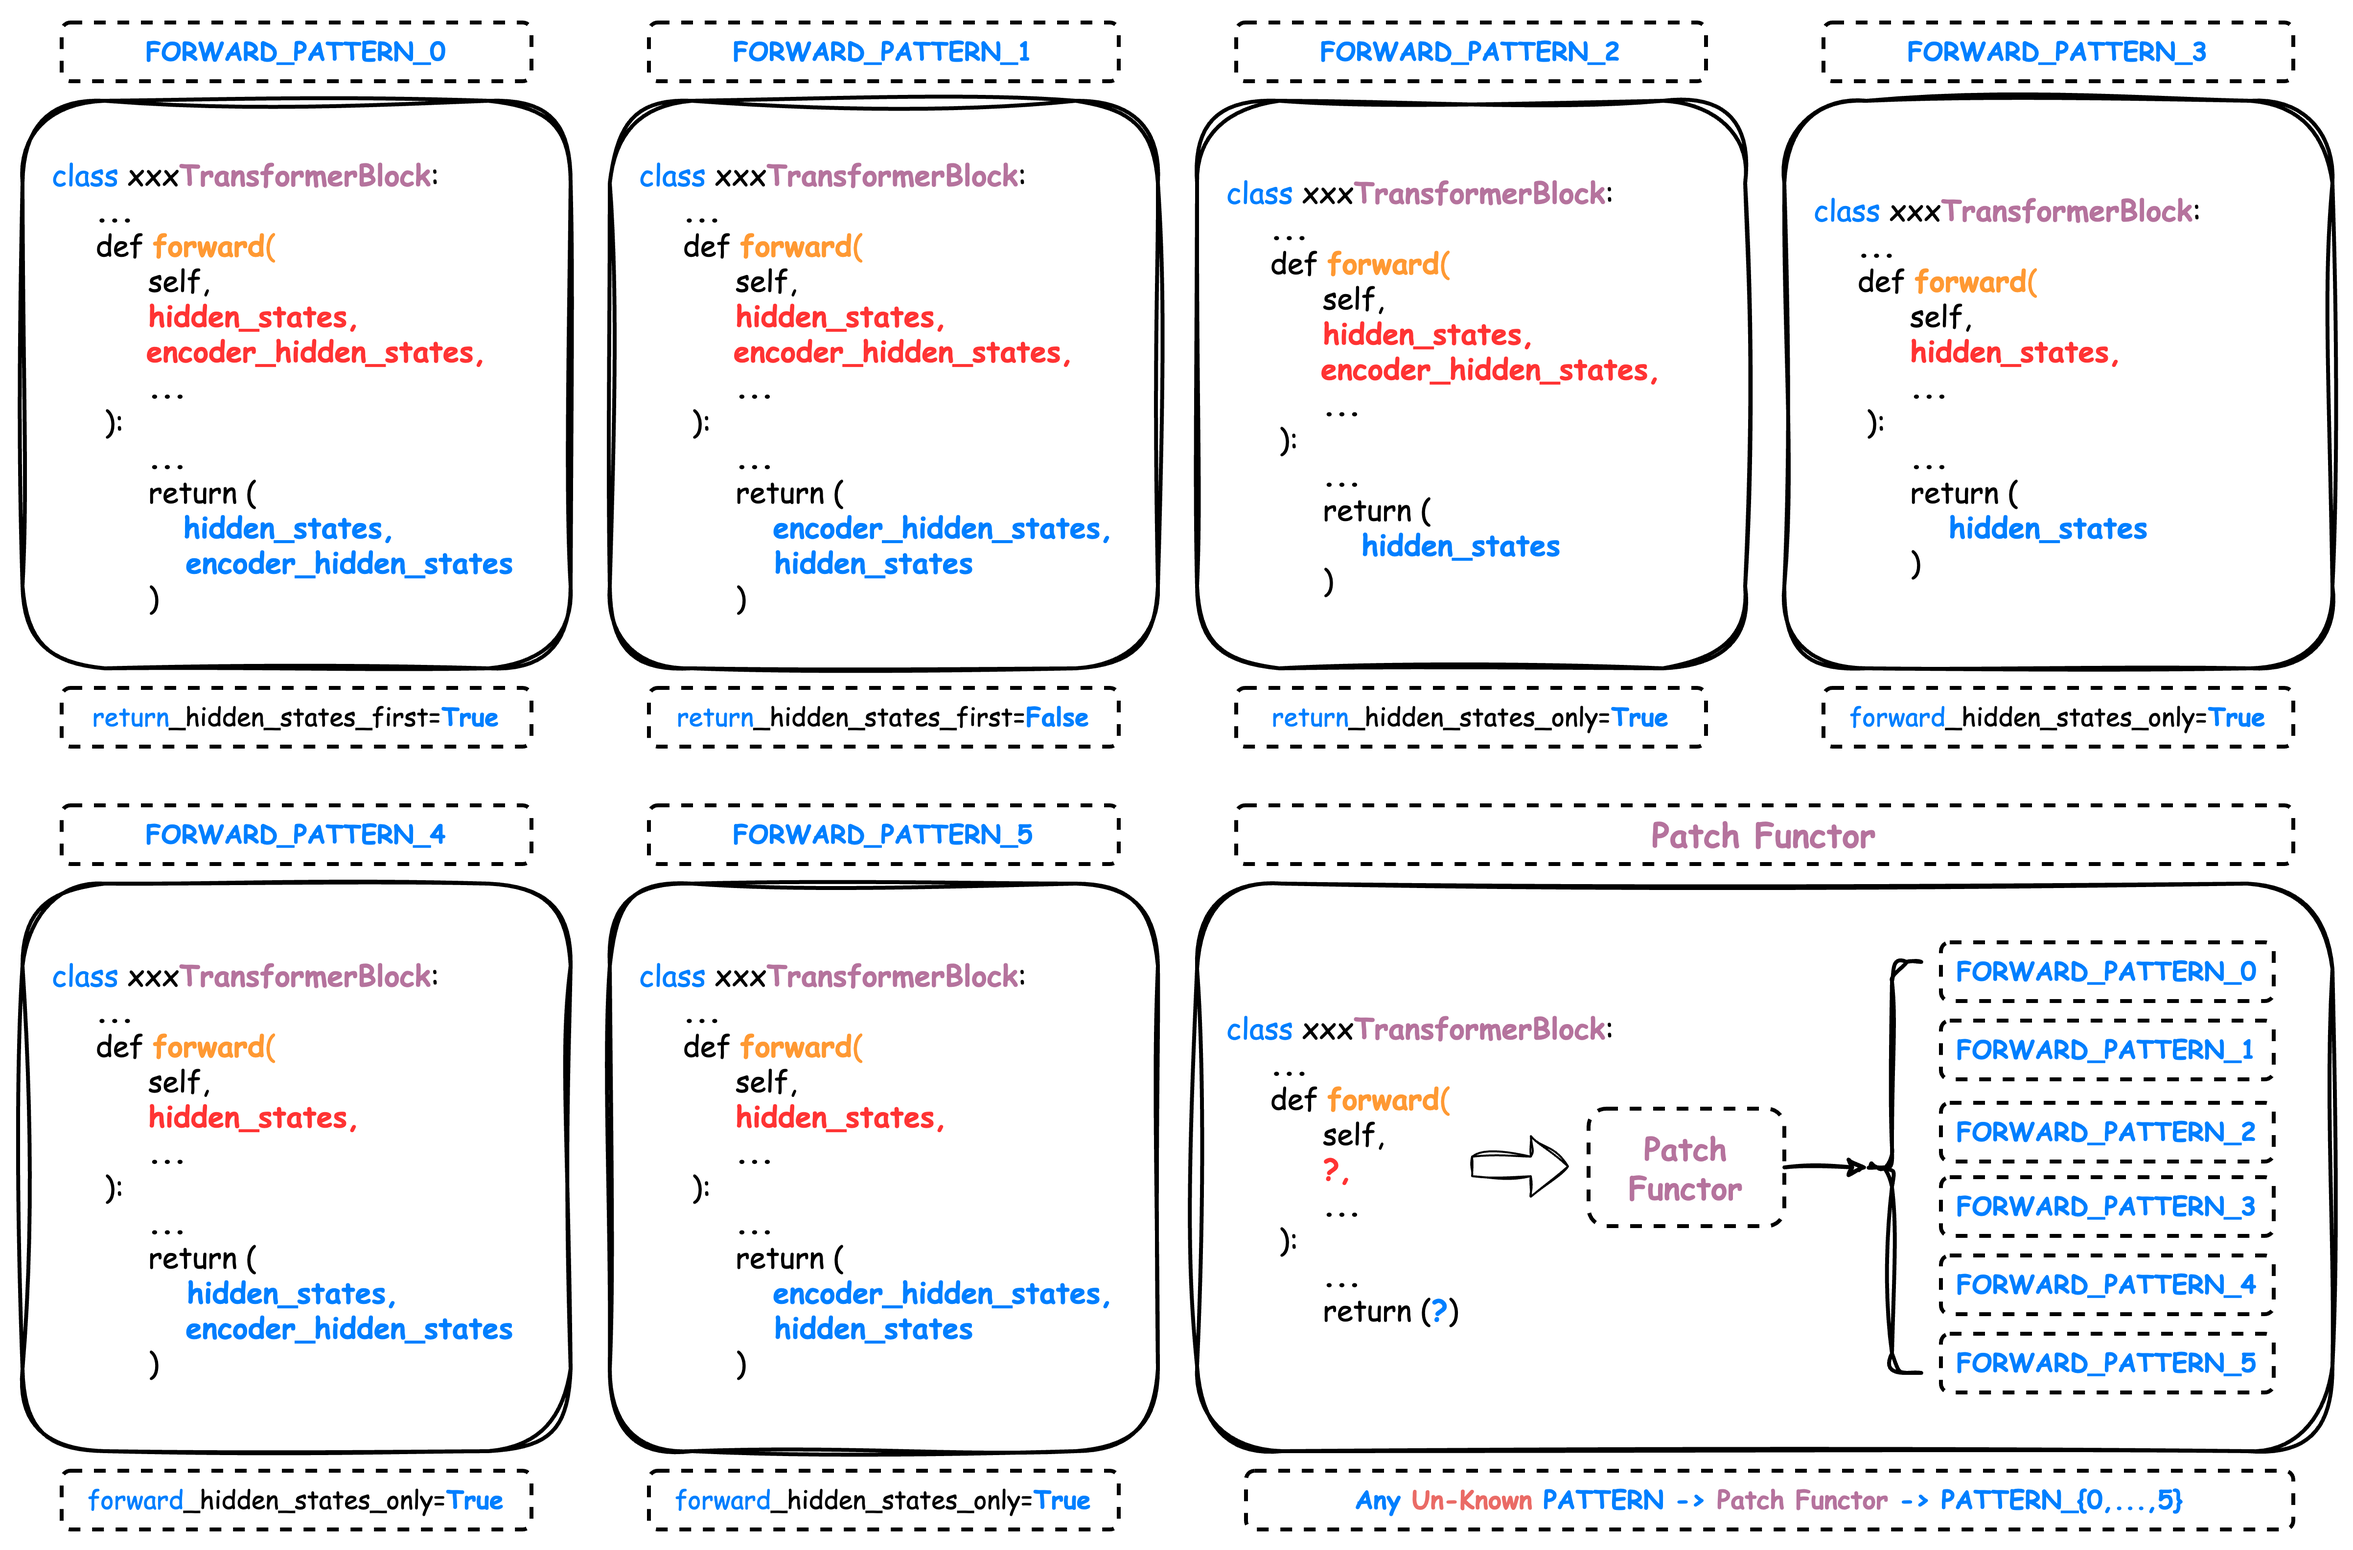
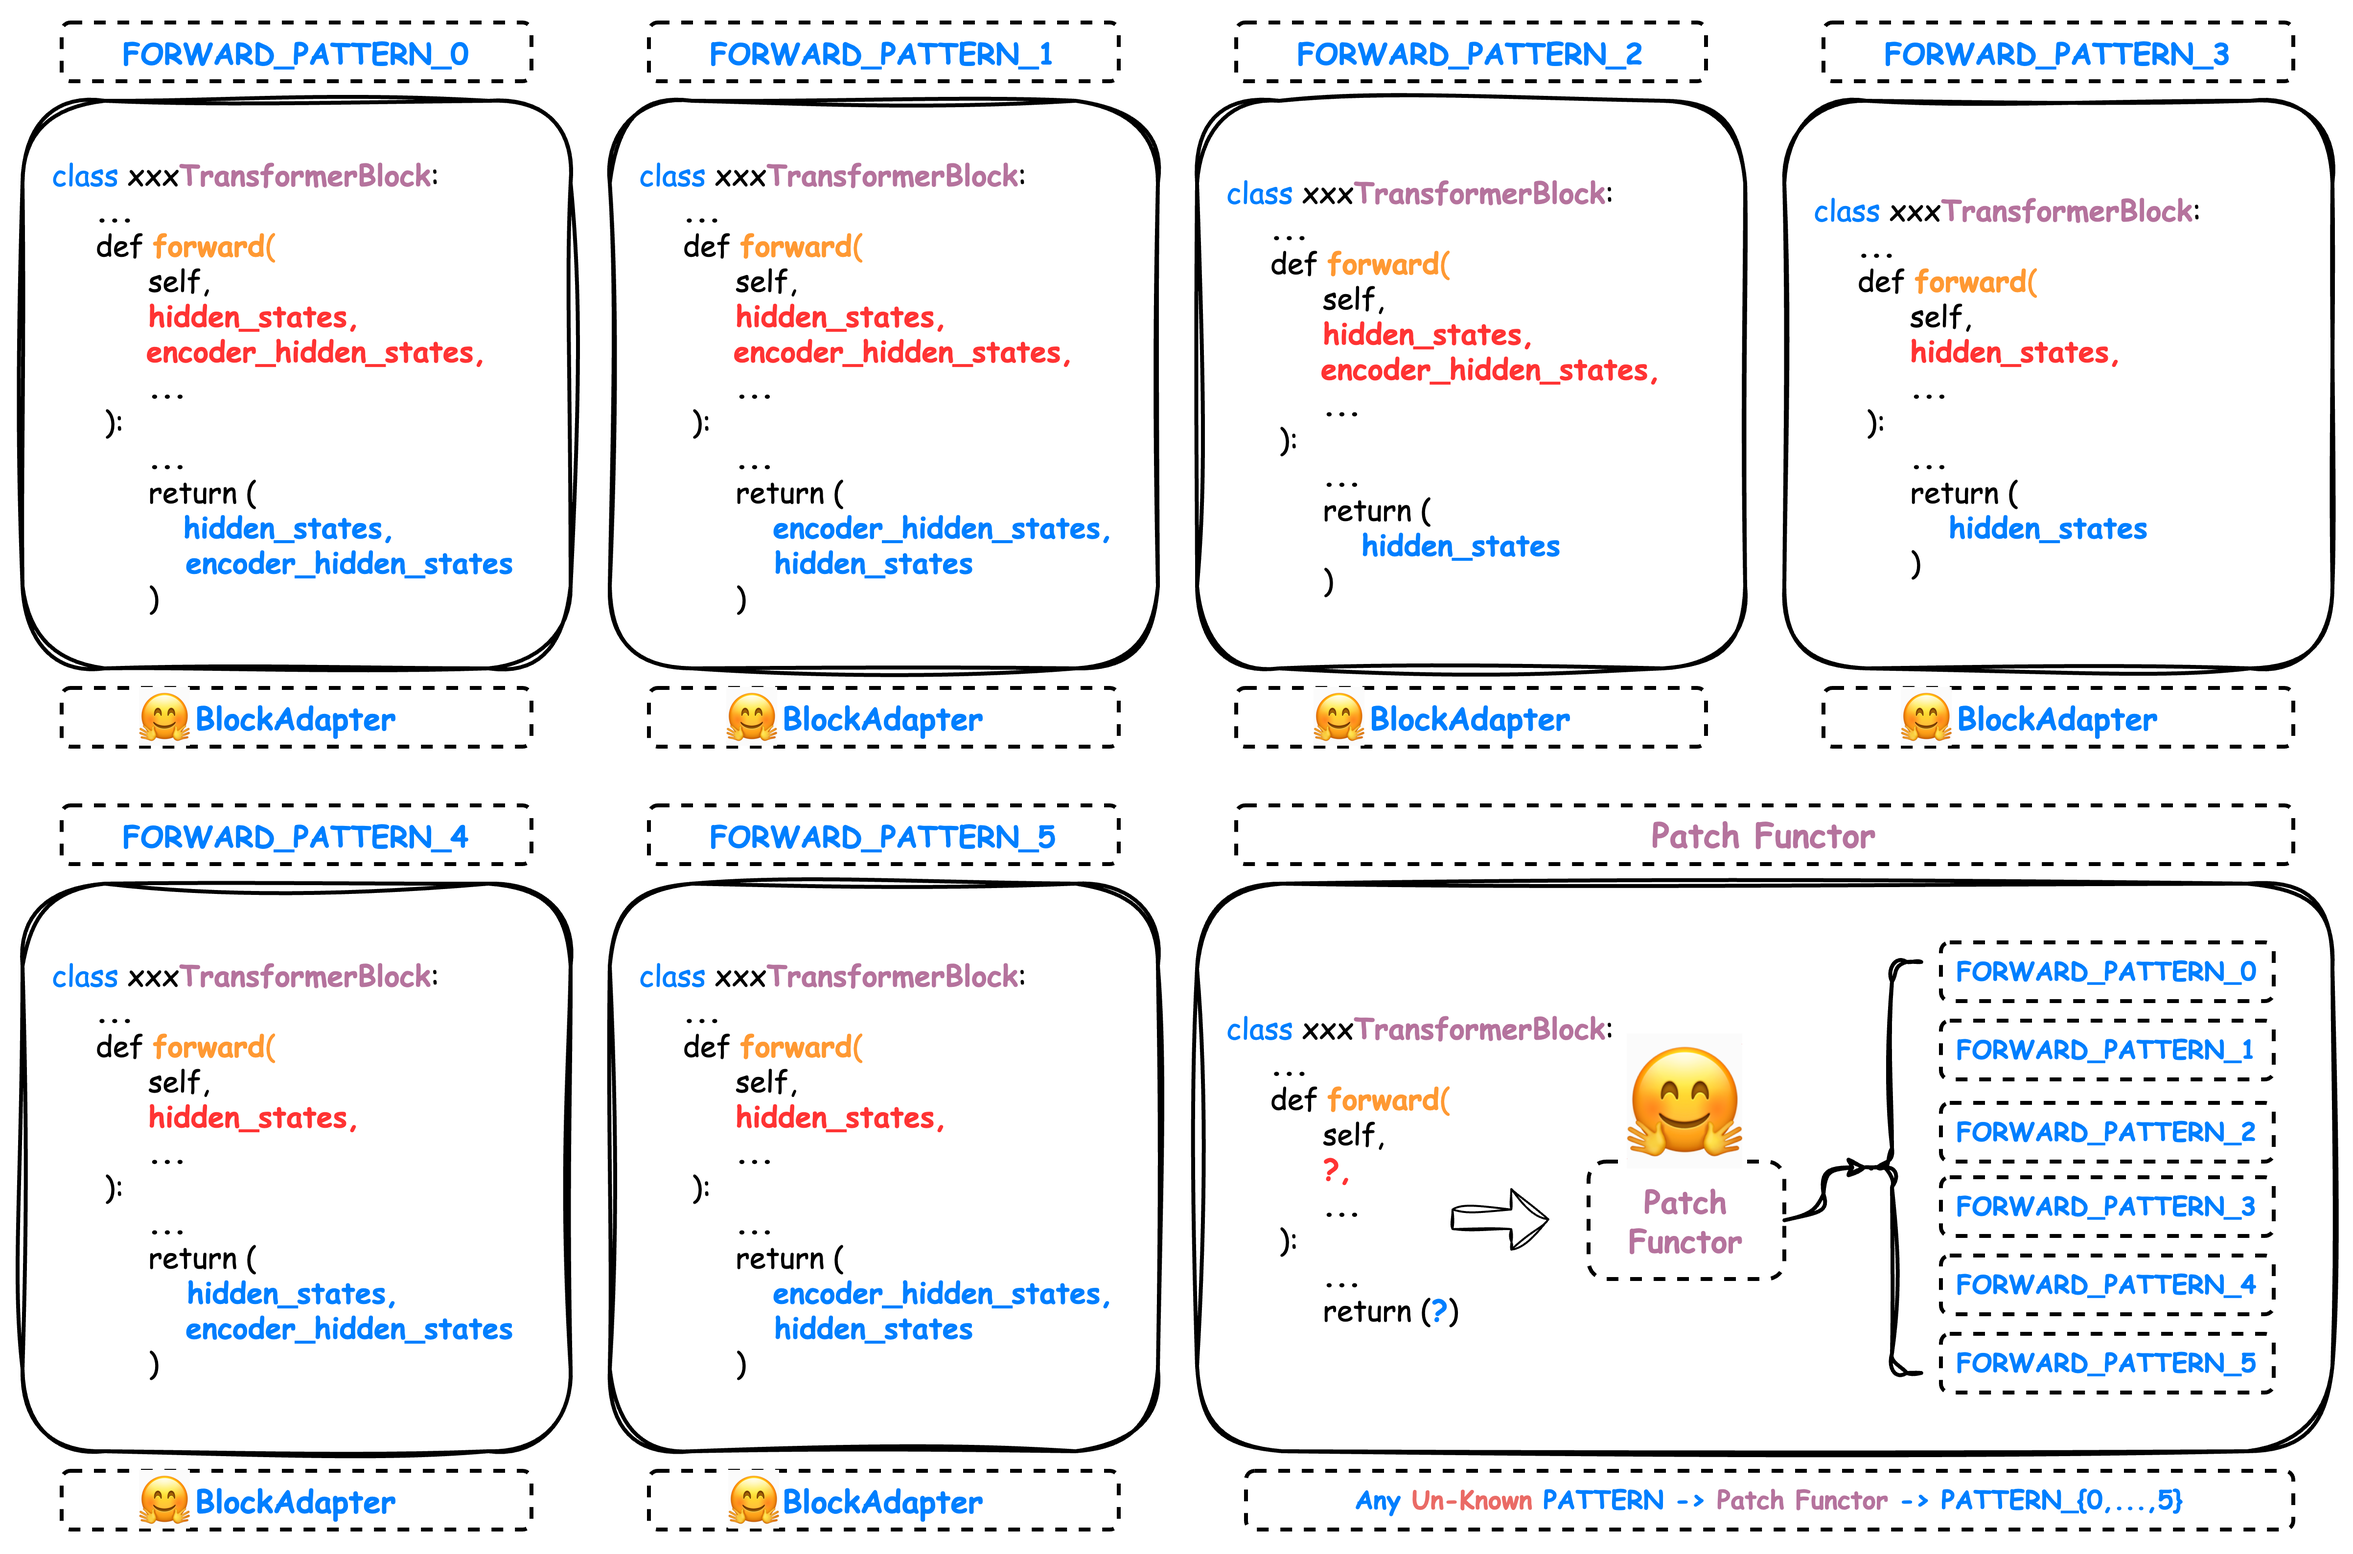
update pattern.png

diff --git a/README.md b/README.md
@@ -109,6 +109,9 @@ Currently, for any **Diffusion** models with **Transformer Blocks** that match t
 
 ![](https://github.com/vipshop/cache-dit/raw/main/assets/patterns.png)
 
+![alt text](image.png)
+
+
 ### ♥Cache Acceleration with One-line Code
 
 In most cases, you only need to call **one-line** of code, that is `cache_dit.enable_cache(...)`. After this API is called, you just need to call the pipe as normal. The `pipe` param can be **any** Diffusion Pipeline. Please refer to [Qwen-Image](./examples/run_qwen_image.py) as an example. 
